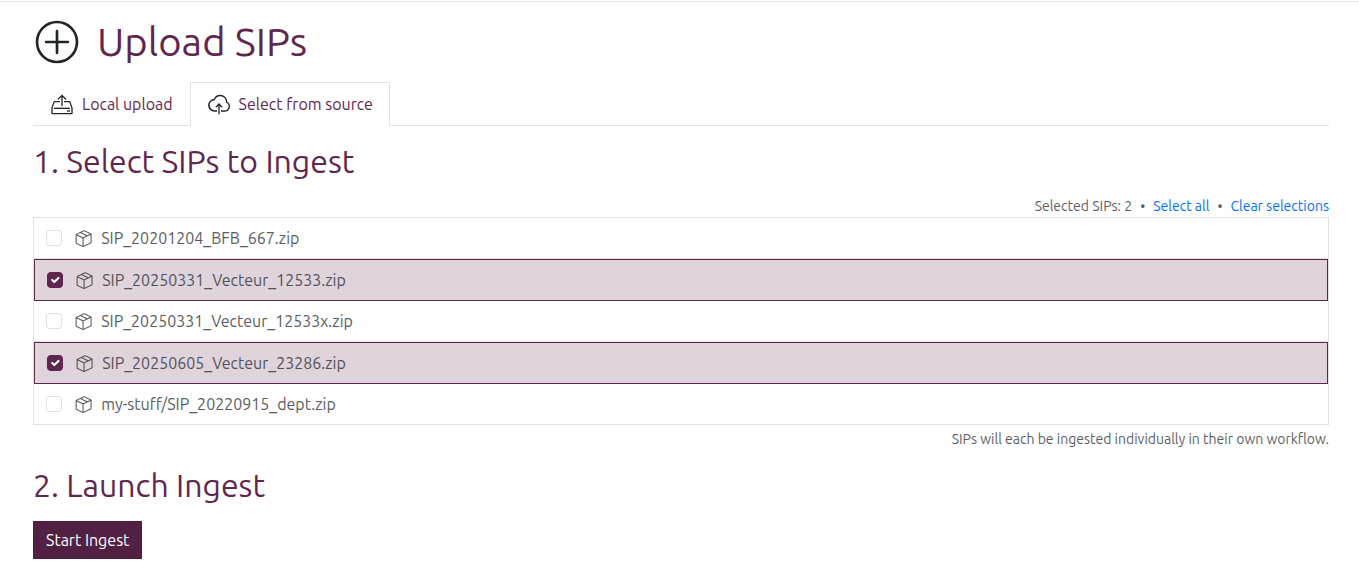
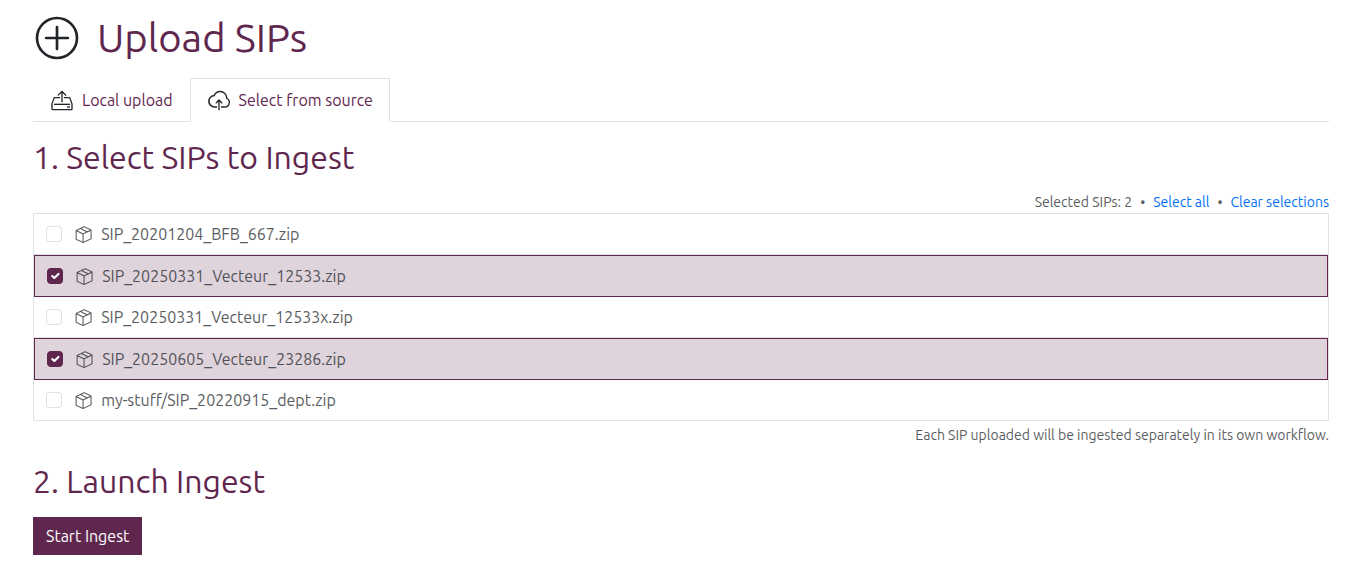
Implement PR feedback fixes

diff --git a/docs/src/user-manual/ingest/submitting-content.md b/docs/src/user-manual/ingest/submitting-content.md
@@ -40,8 +40,8 @@ in the Archivematica documentation.
 ## Upload SIPs via the user interface
 
 Enduro includes an upload page that allows operators to upload SIPs for ingest
-directly via the web browser. A system administrator can define a **package
-upload size limit** [via configuration] - when configured the browser will check
+directly via the web browser. A system administrator can
+[configure a SIP upload size limit] — when configured the browser will check
 the package size upon submission and return an error to the operator if the
 package exceeds the configured limit.
 
@@ -115,13 +115,13 @@ package exceeds the configured limit.
 ## Initiate ingest using SIPs uploaded to a source location
 
 Another method of initiating ingest is by selecting packages previously uploaded
-to a [source location]. A **source location** is an object storage location or
-filesystem directory that [can be configured] for the deposit of packages for
-further action by Enduro operators. Unlike a [watched location] where an action
-is automatically triggered upon deposit, a source location is intended for
-asynchronous manual follow-up. In this case, Enduro operators can select zipped
-packages found in a configured source location and initiate ingest via the user
-interface.
+to a [source location]. A **SIP source location** is an object storage location
+or filesystem directory for the deposit of SIPs that can then be ingested by an
+Enduro operator. The [SIP source configuration] must be set up by a system
+administrator.Unlike a [watched location] where an action is automatically
+triggered upon deposit, a source location is intended for asynchronous manual
+follow-up. In this case, Enduro operators can select zipped packages found in a
+configured source location and initiate ingest via the user interface.
 
 The deposit or upload process will depend on the source location used - to see
 an example of how packages are uploaded to a [MinIO] object store, see the
@@ -140,9 +140,8 @@ watched location [example shown below](#example---upload-via-minio).
 
     !!! warning
 
-        SIPs **must be zipped** to be visible in the configured source location
-        from the Enduro user interface. Other files will not be shown in Enduro
-        to avoid errors during the ingest configuration.
+        SIPs **must be zipped** to be properly ingested into Enduro. You cannot
+        start an ingest workflow from an unzipped directory.
 
         SIPs _may_ be placed in subdirectories, but these subdirectories will
         only be visible as part of the filepath of the ZIP - see for example the
@@ -171,14 +170,14 @@ watched location [example shown below](#example---upload-via-minio).
     After a moment, the page will reload and you will be redirected to the SIP
     browse page, where any new worklfows started by this process  will be
     visible at the top of the browse results. Each SIP uploaded will be ingested
-    separately in its own separate workflow.
+    separately in its own workflow.
 
     ![SIP ingests started from a source location](../screenshots/sip-source-upload-started.png)
 
 ## Initiate ingest via a watched location upload
 
 It is also possible to configure Enduro to use a watched location for ingest.
-This must be [configured by a system administrator] first. The configured
+The [watched location configuration] must be done by a system administrator. The
 watched location can be an object store bucket such as one provided by MinIO,
 S3, or Azure.
 
@@ -213,11 +212,11 @@ type of object store used.
 [a3m]: https://github.com/artefactual-labs/a3m
 [Archivematica]: https://archivematica.org
 [BagIt]: https://tools.ietf.org/html/rfc8493
-[can be configured]: ../../admin-manual/configuration.md#sip-source-location-configuration
-[configured by a system administrator]: ../../admin-manual/configuration.md#watched-location-configuration
+[SIP source configuration]: ../../admin-manual/configuration.md#sip-source-location-configuration
+[watched location configuration]: ../../admin-manual/configuration.md#watched-location-configuration
 [MinIO]: https://min.io/
 [mq]: ../components.md#messaging-queue
 [source location]: ../glossary.md#source-location
 [Unzipped and zipped bags]: https://www.archivematica.org/docs/latest/user-manual/transfer/bags/#bags
-[via configuration]: ../../admin-manual/configuration.md#user-interface-sip-upload-filesize-limit
+[configure a SIP upload size limit]: ../../admin-manual/configuration.md#user-interface-sip-upload-filesize-limit
 [watched location]: ../glossary.md#watched-location
